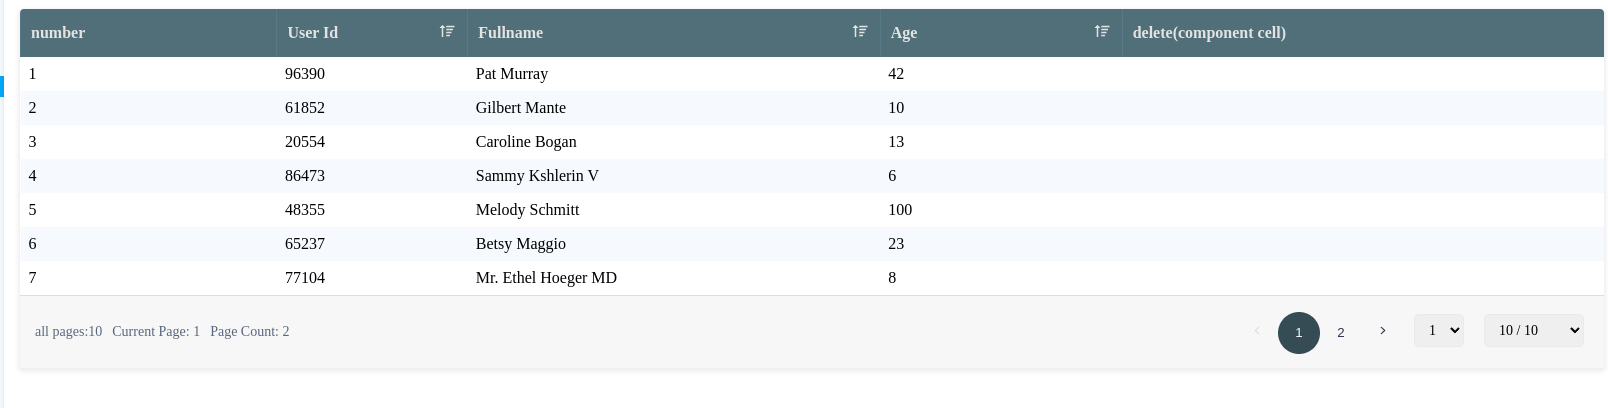
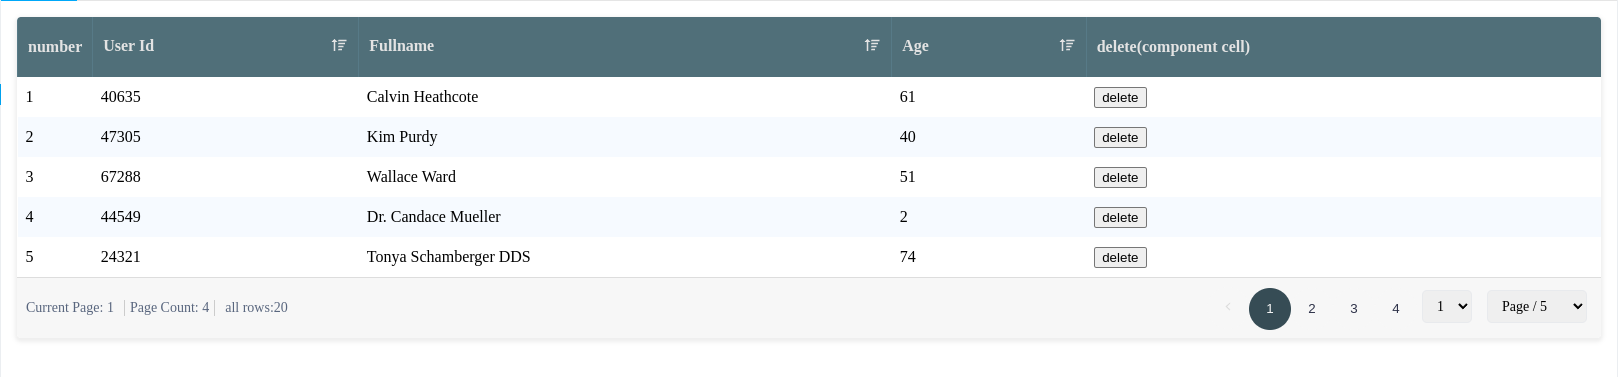
feat: add custom total record calculate

diff --git a/dist/esm/components/angrid.css b/dist/esm/components/angrid.css
@@ -1,1 +1,1 @@
-.angrid{position:relative;border-radius:4px;-webkit-box-shadow:0 2px 4px 2px #eee;box-shadow:0 2px 4px 2px #eee;overflow-x:auto;width:100%}.angrid .asax table{border-collapse:collapse;border-spacing:0;min-width:100%}.angrid .asax table thead tr{background-color:#546e7a;color:#e3e3e3}.angrid .asax table thead tr th{text-align:start;padding:15px 10px;position:relative;border-left:thin solid #5c7988}.angrid .asax table thead tr th button{margin:0 -6px;position:relative;top:calc(50% - 15px);cursor:pointer;width:30px;height:30px;color:#e3e3e3;background-color:#546e7a;border-radius:50%;border:none;font-size:large}.angrid .asax table thead tr th button:hover{background-color:#34454d}.angrid .asax table thead tr th .rtl{float:left}.angrid .asax table thead tr th .ltr{float:right}.angrid .asax table thead tr .sort span{top:5px;position:relative}.angrid .asax table tbody tr:nth-child(even){background-color:#f6faff}.angrid .asax table tbody tr:hover{background-color:#eee}.angrid .asax table tbody tr td{text-align:start;padding:8px}.angrid .asax .bordered td{border:thin solid #ccc}.angrid .asax .paginate{padding:10px;border-top:thin solid #ddd;display:flex;justify-content:space-between;flex-direction:row;background-color:#f7f7f7}.angrid .asax .paginate .paginateBox{display:flex;flex-direction:row}.angrid .asax .paginate button{cursor:pointer;width:42px;height:42px;color:#2e324a;background-color:#f7f7f7;border-radius:50%;margin-top:5px;border:none}.angrid .asax .paginate button:hover{background-color:#eee}.angrid .asax .paginate .active{background-color:#394c56;color:#f7f7f7}.angrid .asax .paginate .active:hover{background-color:#394c56}.angrid .asax .paginate .disabled{color:#ddd}.angrid .asax .paginate .disabled:hover{background-color:#f7f7f7;cursor:auto}.angrid .asax .paginate .selectPage{min-width:50px;margin-left:10px;margin-right:10px}.angrid .asax .paginate .selectPage select{padding:7px 5px 7px 10px;width:100%;border:1px solid #e8eaed;border-radius:5px;cursor:pointer;font-family:inherit;font-size:14px;transition:all 150ms ease;margin-top:8px}.angrid .asax .paginate .selectPage select:required:invalid{color:#5a667f}.angrid .asax .paginate .selectPage select option{color:#223254}.angrid .asax .paginate .selectPage select[value=""][disabled]{display:none}.angrid .asax .paginate .selectPage select:focus{outline:none;border-color:#07f;box-shadow:0 0 0 2px rgba(0,119,255,.2)}.angrid .asax .paginate .selectPage select:hover{stroke:#07f}.angrid .asax .paginate .rangePage{min-width:100px;margin-left:10px;margin-right:10px}.angrid .asax .paginate .rangePage select{padding:7px 5px 7px 10px;width:100%;border:1px solid #e8eaed;border-radius:5px;cursor:pointer;font-family:inherit;font-size:14px;transition:all 150ms ease;margin-top:8px}.angrid .asax .paginate .rangePage select:required:invalid{color:#5a667f}.angrid .asax .paginate .rangePage select option{color:#223254}.angrid .asax .paginate .rangePage select[value=""][disabled]{display:none}.angrid .asax .paginate .rangePage select:focus{outline:none;border-color:#07f;box-shadow:0 0 0 2px rgba(0,119,255,.2)}.angrid .asax .paginate .rangePage select:hover{stroke:#07f}.angrid .asax .paginate .textPage{font-size:14px;color:#5a667f;margin:18px 5px}.isEmpty{position:absolute;top:calc(50% - 60px);left:calc(50% - 60px)}.loading{top:calc(50% - 60px);left:calc(50% - 60px);min-height:300px;background-color:rgba(0,0,0,.2)}@keyframes lds-ring{0%{transform:rotate(0deg)}100%{transform:rotate(360deg)}}.lds-ring{width:80px;height:80px;position:absolute;left:0;right:0;top:40%;margin-left:auto;margin-right:auto}.lds-ring div{box-sizing:border-box;display:block;position:absolute;width:42px;height:42px;margin:8px;border:4px solid #546e7a;border-radius:50%;animation:lds-ring 1.2s cubic-bezier(0.5, 0, 0.5, 1) infinite;border-color:#546e7a rgba(0,0,0,0) rgba(0,0,0,0) rgba(0,0,0,0)}.lds-ring div:nth-child(1){animation-delay:-0.45s}.lds-ring div:nth-child(2){animation-delay:-0.3s}.lds-ring div:nth-child(3){animation-delay:-0.15s}
+.angrid{position:relative;border-radius:4px;-webkit-box-shadow:0 2px 4px 2px #eee;box-shadow:0 2px 4px 2px #eee;overflow-x:auto;width:100%}.angrid .asax table{border-collapse:collapse;border-spacing:0;min-width:100%}.angrid .asax table thead tr{background-color:#546e7a;color:#e3e3e3}.angrid .asax table thead tr th{text-align:start;padding:15px 10px;position:relative;border-left:thin solid #5c7988}.angrid .asax table thead tr th button{margin:0 -6px;position:relative;top:calc(50% - 15px);cursor:pointer;width:30px;height:30px;color:#e3e3e3;background-color:#546e7a;border-radius:50%;border:none;font-size:large}.angrid .asax table thead tr th button:hover{background-color:#34454d}.angrid .asax table thead tr th .rtl{float:left}.angrid .asax table thead tr th .ltr{float:right}.angrid .asax table thead tr .sort span{top:5px;position:relative}.angrid .asax table tbody tr:nth-child(even){background-color:#f6faff}.angrid .asax table tbody tr:hover{background-color:#eee}.angrid .asax table tbody tr td{text-align:start;padding:8px}.angrid .asax .bordered td{border:thin solid #ccc}.angrid .asax .paginate{padding:4px;border-top:thin solid #ddd;display:flex;justify-content:space-between;flex-direction:row;background-color:#f7f7f7}.angrid .asax .paginate .paginateBox{display:flex;font-size:large;flex-direction:row}.angrid .asax .paginate button{cursor:pointer;width:42px;height:42px;color:#2e324a;background-color:#f7f7f7;border-radius:50%;margin-top:5px;border:none}.angrid .asax .paginate button:hover{background-color:#eee}.angrid .asax .paginate .active{background-color:#394c56;color:#f7f7f7}.angrid .asax .paginate .active:hover{background-color:#394c56}.angrid .asax .paginate .disabled{color:#ddd}.angrid .asax .paginate .disabled:hover{background-color:#f7f7f7;cursor:auto}.angrid .asax .paginate .selectPage{min-width:50px;margin-left:5px;margin-right:5px}.angrid .asax .paginate .selectPage select{padding:7px 5px 7px 10px;width:100%;border:1px solid #e8eaed;border-radius:5px;cursor:pointer;font-family:inherit;font-size:14px;transition:all 150ms ease;margin-top:8px}.angrid .asax .paginate .selectPage select:required:invalid{color:#5a667f}.angrid .asax .paginate .selectPage select option{color:#223254}.angrid .asax .paginate .selectPage select[value=""][disabled]{display:none}.angrid .asax .paginate .selectPage select:focus{outline:none;border-color:#07f;box-shadow:0 0 0 2px rgba(0,119,255,.2)}.angrid .asax .paginate .selectPage select:hover{stroke:#07f}.angrid .asax .paginate .rangePage{min-width:100px;margin-left:10px;margin-right:10px}.angrid .asax .paginate .rangePage select{padding:7px 5px 7px 10px;width:100%;border:1px solid #e8eaed;border-radius:5px;cursor:pointer;font-family:inherit;font-size:14px;transition:all 150ms ease;margin-top:8px}.angrid .asax .paginate .rangePage select:required:invalid{color:#5a667f}.angrid .asax .paginate .rangePage select option{color:#223254}.angrid .asax .paginate .rangePage select[value=""][disabled]{display:none}.angrid .asax .paginate .rangePage select:focus{outline:none;border-color:#07f;box-shadow:0 0 0 2px rgba(0,119,255,.2)}.angrid .asax .paginate .rangePage select:hover{stroke:#07f}.angrid .asax .paginate .textPage{font-size:14px;color:#5a667f;margin:18px 5px}.angrid .asax .paginate .textPage .bordered-text{border-right:thin solid #ccc;border-left:thin solid #ccc;padding-right:5px;padding-left:5px}.isEmpty{position:absolute;top:calc(50% - 60px);left:calc(50% - 60px)}.loading{top:calc(50% - 60px);left:calc(50% - 60px);min-height:300px;background-color:rgba(0,0,0,.2)}@keyframes lds-ring{0%{transform:rotate(0deg)}100%{transform:rotate(360deg)}}.lds-ring{width:80px;height:80px;position:absolute;left:0;right:0;top:40%;margin-left:auto;margin-right:auto}.lds-ring div{box-sizing:border-box;display:block;position:absolute;width:42px;height:42px;margin:8px;border:4px solid #546e7a;border-radius:50%;animation:lds-ring 1.2s cubic-bezier(0.5, 0, 0.5, 1) infinite;border-color:#546e7a rgba(0,0,0,0) rgba(0,0,0,0) rgba(0,0,0,0)}.lds-ring div:nth-child(1){animation-delay:-0.45s}.lds-ring div:nth-child(2){animation-delay:-0.3s}.lds-ring div:nth-child(3){animation-delay:-0.15s}

diff --git a/src/components/angrid.css b/src/components/angrid.css
@@ -1,1 +1,1 @@
-.angrid{position:relative;border-radius:4px;-webkit-box-shadow:0 2px 4px 2px #eee;box-shadow:0 2px 4px 2px #eee;overflow-x:auto;width:100%}.angrid .asax table{border-collapse:collapse;border-spacing:0;min-width:100%}.angrid .asax table thead tr{background-color:#546e7a;color:#e3e3e3}.angrid .asax table thead tr th{text-align:start;padding:15px 10px;position:relative;border-left:thin solid #5c7988}.angrid .asax table thead tr th button{margin:0 -6px;position:relative;top:calc(50% - 15px);cursor:pointer;width:30px;height:30px;color:#e3e3e3;background-color:#546e7a;border-radius:50%;border:none;font-size:large}.angrid .asax table thead tr th button:hover{background-color:#34454d}.angrid .asax table thead tr th .rtl{float:left}.angrid .asax table thead tr th .ltr{float:right}.angrid .asax table thead tr .sort span{top:5px;position:relative}.angrid .asax table tbody tr:nth-child(even){background-color:#f6faff}.angrid .asax table tbody tr:hover{background-color:#eee}.angrid .asax table tbody tr td{text-align:start;padding:8px}.angrid .asax .bordered td{border:thin solid #ccc}.angrid .asax .paginate{padding:10px;border-top:thin solid #ddd;display:flex;justify-content:space-between;flex-direction:row;background-color:#f7f7f7}.angrid .asax .paginate .paginateBox{display:flex;flex-direction:row}.angrid .asax .paginate button{cursor:pointer;width:42px;height:42px;color:#2e324a;background-color:#f7f7f7;border-radius:50%;margin-top:5px;border:none}.angrid .asax .paginate button:hover{background-color:#eee}.angrid .asax .paginate .active{background-color:#394c56;color:#f7f7f7}.angrid .asax .paginate .active:hover{background-color:#394c56}.angrid .asax .paginate .disabled{color:#ddd}.angrid .asax .paginate .disabled:hover{background-color:#f7f7f7;cursor:auto}.angrid .asax .paginate .selectPage{min-width:50px;margin-left:10px;margin-right:10px}.angrid .asax .paginate .selectPage select{padding:7px 5px 7px 10px;width:100%;border:1px solid #e8eaed;border-radius:5px;cursor:pointer;font-family:inherit;font-size:14px;transition:all 150ms ease;margin-top:8px}.angrid .asax .paginate .selectPage select:required:invalid{color:#5a667f}.angrid .asax .paginate .selectPage select option{color:#223254}.angrid .asax .paginate .selectPage select[value=""][disabled]{display:none}.angrid .asax .paginate .selectPage select:focus{outline:none;border-color:#07f;box-shadow:0 0 0 2px rgba(0,119,255,.2)}.angrid .asax .paginate .selectPage select:hover{stroke:#07f}.angrid .asax .paginate .rangePage{min-width:100px;margin-left:10px;margin-right:10px}.angrid .asax .paginate .rangePage select{padding:7px 5px 7px 10px;width:100%;border:1px solid #e8eaed;border-radius:5px;cursor:pointer;font-family:inherit;font-size:14px;transition:all 150ms ease;margin-top:8px}.angrid .asax .paginate .rangePage select:required:invalid{color:#5a667f}.angrid .asax .paginate .rangePage select option{color:#223254}.angrid .asax .paginate .rangePage select[value=""][disabled]{display:none}.angrid .asax .paginate .rangePage select:focus{outline:none;border-color:#07f;box-shadow:0 0 0 2px rgba(0,119,255,.2)}.angrid .asax .paginate .rangePage select:hover{stroke:#07f}.angrid .asax .paginate .textPage{font-size:14px;color:#5a667f;margin:18px 5px}.isEmpty{position:absolute;top:calc(50% - 60px);left:calc(50% - 60px)}.loading{top:calc(50% - 60px);left:calc(50% - 60px);min-height:300px;background-color:rgba(0,0,0,.2)}@keyframes lds-ring{0%{transform:rotate(0deg)}100%{transform:rotate(360deg)}}.lds-ring{width:80px;height:80px;position:absolute;left:0;right:0;top:40%;margin-left:auto;margin-right:auto}.lds-ring div{box-sizing:border-box;display:block;position:absolute;width:42px;height:42px;margin:8px;border:4px solid #546e7a;border-radius:50%;animation:lds-ring 1.2s cubic-bezier(0.5, 0, 0.5, 1) infinite;border-color:#546e7a rgba(0,0,0,0) rgba(0,0,0,0) rgba(0,0,0,0)}.lds-ring div:nth-child(1){animation-delay:-0.45s}.lds-ring div:nth-child(2){animation-delay:-0.3s}.lds-ring div:nth-child(3){animation-delay:-0.15s}
+.angrid{position:relative;border-radius:4px;-webkit-box-shadow:0 2px 4px 2px #eee;box-shadow:0 2px 4px 2px #eee;overflow-x:auto;width:100%}.angrid .asax table{border-collapse:collapse;border-spacing:0;min-width:100%}.angrid .asax table thead tr{background-color:#546e7a;color:#e3e3e3}.angrid .asax table thead tr th{text-align:start;padding:15px 10px;position:relative;border-left:thin solid #5c7988}.angrid .asax table thead tr th button{margin:0 -6px;position:relative;top:calc(50% - 15px);cursor:pointer;width:30px;height:30px;color:#e3e3e3;background-color:#546e7a;border-radius:50%;border:none;font-size:large}.angrid .asax table thead tr th button:hover{background-color:#34454d}.angrid .asax table thead tr th .rtl{float:left}.angrid .asax table thead tr th .ltr{float:right}.angrid .asax table thead tr .sort span{top:5px;position:relative}.angrid .asax table tbody tr:nth-child(even){background-color:#f6faff}.angrid .asax table tbody tr:hover{background-color:#eee}.angrid .asax table tbody tr td{text-align:start;padding:8px}.angrid .asax .bordered td{border:thin solid #ccc}.angrid .asax .paginate{padding:4px;border-top:thin solid #ddd;display:flex;justify-content:space-between;flex-direction:row;background-color:#f7f7f7}.angrid .asax .paginate .paginateBox{display:flex;font-size:large;flex-direction:row}.angrid .asax .paginate button{cursor:pointer;width:42px;height:42px;color:#2e324a;background-color:#f7f7f7;border-radius:50%;margin-top:5px;border:none}.angrid .asax .paginate button:hover{background-color:#eee}.angrid .asax .paginate .active{background-color:#394c56;color:#f7f7f7}.angrid .asax .paginate .active:hover{background-color:#394c56}.angrid .asax .paginate .disabled{color:#ddd}.angrid .asax .paginate .disabled:hover{background-color:#f7f7f7;cursor:auto}.angrid .asax .paginate .selectPage{min-width:50px;margin-left:5px;margin-right:5px}.angrid .asax .paginate .selectPage select{padding:7px 5px 7px 10px;width:100%;border:1px solid #e8eaed;border-radius:5px;cursor:pointer;font-family:inherit;font-size:14px;transition:all 150ms ease;margin-top:8px}.angrid .asax .paginate .selectPage select:required:invalid{color:#5a667f}.angrid .asax .paginate .selectPage select option{color:#223254}.angrid .asax .paginate .selectPage select[value=""][disabled]{display:none}.angrid .asax .paginate .selectPage select:focus{outline:none;border-color:#07f;box-shadow:0 0 0 2px rgba(0,119,255,.2)}.angrid .asax .paginate .selectPage select:hover{stroke:#07f}.angrid .asax .paginate .rangePage{min-width:100px;margin-left:10px;margin-right:10px}.angrid .asax .paginate .rangePage select{padding:7px 5px 7px 10px;width:100%;border:1px solid #e8eaed;border-radius:5px;cursor:pointer;font-family:inherit;font-size:14px;transition:all 150ms ease;margin-top:8px}.angrid .asax .paginate .rangePage select:required:invalid{color:#5a667f}.angrid .asax .paginate .rangePage select option{color:#223254}.angrid .asax .paginate .rangePage select[value=""][disabled]{display:none}.angrid .asax .paginate .rangePage select:focus{outline:none;border-color:#07f;box-shadow:0 0 0 2px rgba(0,119,255,.2)}.angrid .asax .paginate .rangePage select:hover{stroke:#07f}.angrid .asax .paginate .textPage{font-size:14px;color:#5a667f;margin:18px 5px}.angrid .asax .paginate .textPage .bordered-text{border-right:thin solid #ccc;border-left:thin solid #ccc;padding-right:5px;padding-left:5px}.isEmpty{position:absolute;top:calc(50% - 60px);left:calc(50% - 60px)}.loading{top:calc(50% - 60px);left:calc(50% - 60px);min-height:300px;background-color:rgba(0,0,0,.2)}@keyframes lds-ring{0%{transform:rotate(0deg)}100%{transform:rotate(360deg)}}.lds-ring{width:80px;height:80px;position:absolute;left:0;right:0;top:40%;margin-left:auto;margin-right:auto}.lds-ring div{box-sizing:border-box;display:block;position:absolute;width:42px;height:42px;margin:8px;border:4px solid #546e7a;border-radius:50%;animation:lds-ring 1.2s cubic-bezier(0.5, 0, 0.5, 1) infinite;border-color:#546e7a rgba(0,0,0,0) rgba(0,0,0,0) rgba(0,0,0,0)}.lds-ring div:nth-child(1){animation-delay:-0.45s}.lds-ring div:nth-child(2){animation-delay:-0.3s}.lds-ring div:nth-child(3){animation-delay:-0.15s}

diff --git a/dist/cjs/components/an-grid.js b/dist/cjs/components/an-grid.js
@@ -30,12 +30,12 @@ var paginate_1 = require("./paginate");
 var table_1 = require("./table");
 var range = [5, 10, 20, 50, 100, 200, 500];
 var Main = function (_a) {
-    var _b = _a.className, className = _b === void 0 ? '' : _b, _c = _a.theme, theme = _c === void 0 ? 'light' : _c, _d = _a.rowHeight, rowHeight = _d === void 0 ? 30 : _d, _e = _a.showRowNumber, showRowNumber = _e === void 0 ? true : _e, _f = _a.columnNumberTitle, columnNumberTitle = _f === void 0 ? '#' : _f, columns = _a.columns, rows = _a.rows, _g = _a.loading, loading = _g === void 0 ? false : _g, _h = _a.pageSize, pageSize = _h === void 0 ? 20 : _h, _j = _a.onPageChange, onPageChange = _j === void 0 ? function () { } : _j, _k = _a.showTotalRecord, showTotalRecord = _k === void 0 ? false : _k, _l = _a.showCurrentPage, showCurrentPage = _l === void 0 ? false : _l, _m = _a.showNumberOfPage, showNumberOfPage = _m === void 0 ? false : _m, _o = _a.showPageRange, showPageRange = _o === void 0 ? true : _o, _p = _a.showPageSelect, showPageSelect = _p === void 0 ? true : _p, _q = _a.showPageNumber, showPageNumber = _q === void 0 ? true : _q, _r = _a.showPageArrow, showPageArrow = _r === void 0 ? true : _r, _s = _a.bordered, bordered = _s === void 0 ? false : _s, _t = _a.textCurrent, textCurrent = _t === void 0 ? locale_1.locale.fa.current : _t, _u = _a.textTotal, textTotal = _u === void 0 ? locale_1.locale.fa.total : _u, _v = _a.textNumber, textNumber = _v === void 0 ? locale_1.locale.fa.number : _v, _w = _a.textEmpty, textEmpty = _w === void 0 ? locale_1.locale.fa.empty : _w, _x = _a.textPage, textPage = _x === void 0 ? locale_1.locale.fa.page : _x, _y = _a.rtl, rtl = _y === void 0 ? false : _y;
-    var _z = (0, react_1.useState)(true), isLoading = _z[0], setIsLoading = _z[1];
-    var _0 = (0, react_1.useState)(false), isEmpty = _0[0], setIsEmpty = _0[1];
-    var _1 = (0, react_1.useState)([]), isRow = _1[0], setIsRow = _1[1];
-    var _2 = (0, react_1.useState)(pageSize), isSize = _2[0], setIsSize = _2[1];
-    var _3 = (0, react_1.useState)(1), page = _3[0], setPage = _3[1];
+    var _b = _a.className, className = _b === void 0 ? '' : _b, _c = _a.theme, theme = _c === void 0 ? 'light' : _c, _d = _a.rowHeight, rowHeight = _d === void 0 ? 30 : _d, _e = _a.showRowNumber, showRowNumber = _e === void 0 ? true : _e, _f = _a.columnNumberTitle, columnNumberTitle = _f === void 0 ? '#' : _f, columns = _a.columns, rows = _a.rows, _g = _a.loading, loading = _g === void 0 ? false : _g, _h = _a.pageSize, pageSize = _h === void 0 ? 20 : _h, _j = _a.onPageChange, onPageChange = _j === void 0 ? function () { } : _j, _k = _a.showTotalRecord, showTotalRecord = _k === void 0 ? false : _k, _l = _a.showCurrentPage, showCurrentPage = _l === void 0 ? false : _l, _m = _a.showNumberOfPage, showNumberOfPage = _m === void 0 ? false : _m, _o = _a.showPageRange, showPageRange = _o === void 0 ? true : _o, _p = _a.showPageSelect, showPageSelect = _p === void 0 ? true : _p, _q = _a.showPageNumber, showPageNumber = _q === void 0 ? true : _q, _r = _a.showPageArrow, showPageArrow = _r === void 0 ? true : _r, _s = _a.bordered, bordered = _s === void 0 ? false : _s, _t = _a.textCurrent, textCurrent = _t === void 0 ? locale_1.locale.fa.current : _t, _u = _a.textTotal, textTotal = _u === void 0 ? locale_1.locale.fa.total : _u, _v = _a.textNumber, textNumber = _v === void 0 ? locale_1.locale.fa.number : _v, _w = _a.textEmpty, textEmpty = _w === void 0 ? locale_1.locale.fa.empty : _w, _x = _a.textPage, textPage = _x === void 0 ? locale_1.locale.fa.page : _x, _y = _a.totalCount, totalCount = _y === void 0 ? rows.length : _y, _z = _a.rtl, rtl = _z === void 0 ? false : _z;
+    var _0 = (0, react_1.useState)(true), isLoading = _0[0], setIsLoading = _0[1];
+    var _1 = (0, react_1.useState)(false), isEmpty = _1[0], setIsEmpty = _1[1];
+    var _2 = (0, react_1.useState)([]), isRow = _2[0], setIsRow = _2[1];
+    var _3 = (0, react_1.useState)(pageSize), isSize = _3[0], setIsSize = _3[1];
+    var _4 = (0, react_1.useState)(1), page = _4[0], setPage = _4[1];
     var indexOfLastRecord = page * isSize;
     var indexOfFirstRecord = indexOfLastRecord - isSize;
     var sortRows = (0, react_1.useCallback)(function (value, desc) {
@@ -67,6 +67,6 @@ var Main = function (_a) {
     }, [pageSize]);
     return ((0, jsx_runtime_1.jsx)("div", __assign({ className: "angrid ".concat(theme, " ").concat(className), style: { minHeight: rows.length === 0 ? '300px' : '' } }, { children: (0, jsx_runtime_1.jsxs)("div", __assign({ className: 'asax' }, { children: [(0, jsx_runtime_1.jsx)(table_1.Table, { rowHeight: rowHeight, textEmpty: textEmpty, rtl: rtl, className: bordered ? 'bordered' : '', showRowNumber: showRowNumber, columnNumberTitle: columnNumberTitle, columns: columns, rows: isRow, pageSize: isSize, currentPage: page, empty: isEmpty, loading: isLoading, sortable: function (value, sort) {
                         return sortRows(value, sort);
-                    } }), !isEmpty && !isLoading && ((0, jsx_runtime_1.jsx)(paginate_1.Paginate, { textCurrent: textCurrent, textTotal: textTotal, textNumber: textNumber, rtl: rtl, totalCount: rows.length, pageSize: isSize, onPageChange: onPageChange, range: range, showTotalRecord: showTotalRecord, showCurrentPage: showCurrentPage, showNumberOfPage: showNumberOfPage, showPageRange: showPageRange, showPageSelect: showPageSelect, showPageNumber: showPageNumber, showPageArrow: showPageArrow, page: page, setPage: handleSetPage, textPage: textPage, changeSize: setIsSize }))] })) })));
+                    } }), !isEmpty && !isLoading && ((0, jsx_runtime_1.jsx)(paginate_1.Paginate, { textCurrent: textCurrent, textTotal: textTotal, textNumber: textNumber, rtl: rtl, totalCount: totalCount, pageSize: isSize, onPageChange: onPageChange, range: range, showTotalRecord: showTotalRecord, showCurrentPage: showCurrentPage, showNumberOfPage: showNumberOfPage, showPageRange: showPageRange, showPageSelect: showPageSelect, showPageNumber: showPageNumber, showPageArrow: showPageArrow, page: page, setPage: handleSetPage, textPage: textPage, changeSize: setIsSize }))] })) })));
 };
 exports.Angrid = (0, react_1.memo)(Main);

diff --git a/dist/esm/components/an-grid.js b/dist/esm/components/an-grid.js
@@ -27,12 +27,12 @@ import { Paginate } from './paginate';
 import { Table } from './table';
 var range = [5, 10, 20, 50, 100, 200, 500];
 var Main = function (_a) {
-    var _b = _a.className, className = _b === void 0 ? '' : _b, _c = _a.theme, theme = _c === void 0 ? 'light' : _c, _d = _a.rowHeight, rowHeight = _d === void 0 ? 30 : _d, _e = _a.showRowNumber, showRowNumber = _e === void 0 ? true : _e, _f = _a.columnNumberTitle, columnNumberTitle = _f === void 0 ? '#' : _f, columns = _a.columns, rows = _a.rows, _g = _a.loading, loading = _g === void 0 ? false : _g, _h = _a.pageSize, pageSize = _h === void 0 ? 20 : _h, _j = _a.onPageChange, onPageChange = _j === void 0 ? function () { } : _j, _k = _a.showTotalRecord, showTotalRecord = _k === void 0 ? false : _k, _l = _a.showCurrentPage, showCurrentPage = _l === void 0 ? false : _l, _m = _a.showNumberOfPage, showNumberOfPage = _m === void 0 ? false : _m, _o = _a.showPageRange, showPageRange = _o === void 0 ? true : _o, _p = _a.showPageSelect, showPageSelect = _p === void 0 ? true : _p, _q = _a.showPageNumber, showPageNumber = _q === void 0 ? true : _q, _r = _a.showPageArrow, showPageArrow = _r === void 0 ? true : _r, _s = _a.bordered, bordered = _s === void 0 ? false : _s, _t = _a.textCurrent, textCurrent = _t === void 0 ? locale.fa.current : _t, _u = _a.textTotal, textTotal = _u === void 0 ? locale.fa.total : _u, _v = _a.textNumber, textNumber = _v === void 0 ? locale.fa.number : _v, _w = _a.textEmpty, textEmpty = _w === void 0 ? locale.fa.empty : _w, _x = _a.textPage, textPage = _x === void 0 ? locale.fa.page : _x, _y = _a.rtl, rtl = _y === void 0 ? false : _y;
-    var _z = useState(true), isLoading = _z[0], setIsLoading = _z[1];
-    var _0 = useState(false), isEmpty = _0[0], setIsEmpty = _0[1];
-    var _1 = useState([]), isRow = _1[0], setIsRow = _1[1];
-    var _2 = useState(pageSize), isSize = _2[0], setIsSize = _2[1];
-    var _3 = useState(1), page = _3[0], setPage = _3[1];
+    var _b = _a.className, className = _b === void 0 ? '' : _b, _c = _a.theme, theme = _c === void 0 ? 'light' : _c, _d = _a.rowHeight, rowHeight = _d === void 0 ? 30 : _d, _e = _a.showRowNumber, showRowNumber = _e === void 0 ? true : _e, _f = _a.columnNumberTitle, columnNumberTitle = _f === void 0 ? '#' : _f, columns = _a.columns, rows = _a.rows, _g = _a.loading, loading = _g === void 0 ? false : _g, _h = _a.pageSize, pageSize = _h === void 0 ? 20 : _h, _j = _a.onPageChange, onPageChange = _j === void 0 ? function () { } : _j, _k = _a.showTotalRecord, showTotalRecord = _k === void 0 ? false : _k, _l = _a.showCurrentPage, showCurrentPage = _l === void 0 ? false : _l, _m = _a.showNumberOfPage, showNumberOfPage = _m === void 0 ? false : _m, _o = _a.showPageRange, showPageRange = _o === void 0 ? true : _o, _p = _a.showPageSelect, showPageSelect = _p === void 0 ? true : _p, _q = _a.showPageNumber, showPageNumber = _q === void 0 ? true : _q, _r = _a.showPageArrow, showPageArrow = _r === void 0 ? true : _r, _s = _a.bordered, bordered = _s === void 0 ? false : _s, _t = _a.textCurrent, textCurrent = _t === void 0 ? locale.fa.current : _t, _u = _a.textTotal, textTotal = _u === void 0 ? locale.fa.total : _u, _v = _a.textNumber, textNumber = _v === void 0 ? locale.fa.number : _v, _w = _a.textEmpty, textEmpty = _w === void 0 ? locale.fa.empty : _w, _x = _a.textPage, textPage = _x === void 0 ? locale.fa.page : _x, _y = _a.totalCount, totalCount = _y === void 0 ? rows.length : _y, _z = _a.rtl, rtl = _z === void 0 ? false : _z;
+    var _0 = useState(true), isLoading = _0[0], setIsLoading = _0[1];
+    var _1 = useState(false), isEmpty = _1[0], setIsEmpty = _1[1];
+    var _2 = useState([]), isRow = _2[0], setIsRow = _2[1];
+    var _3 = useState(pageSize), isSize = _3[0], setIsSize = _3[1];
+    var _4 = useState(1), page = _4[0], setPage = _4[1];
     var indexOfLastRecord = page * isSize;
     var indexOfFirstRecord = indexOfLastRecord - isSize;
     var sortRows = useCallback(function (value, desc) {
@@ -64,6 +64,6 @@ var Main = function (_a) {
     }, [pageSize]);
     return (_jsx("div", __assign({ className: "angrid ".concat(theme, " ").concat(className), style: { minHeight: rows.length === 0 ? '300px' : '' } }, { children: _jsxs("div", __assign({ className: 'asax' }, { children: [_jsx(Table, { rowHeight: rowHeight, textEmpty: textEmpty, rtl: rtl, className: bordered ? 'bordered' : '', showRowNumber: showRowNumber, columnNumberTitle: columnNumberTitle, columns: columns, rows: isRow, pageSize: isSize, currentPage: page, empty: isEmpty, loading: isLoading, sortable: function (value, sort) {
                         return sortRows(value, sort);
-                    } }), !isEmpty && !isLoading && (_jsx(Paginate, { textCurrent: textCurrent, textTotal: textTotal, textNumber: textNumber, rtl: rtl, totalCount: rows.length, pageSize: isSize, onPageChange: onPageChange, range: range, showTotalRecord: showTotalRecord, showCurrentPage: showCurrentPage, showNumberOfPage: showNumberOfPage, showPageRange: showPageRange, showPageSelect: showPageSelect, showPageNumber: showPageNumber, showPageArrow: showPageArrow, page: page, setPage: handleSetPage, textPage: textPage, changeSize: setIsSize }))] })) })));
+                    } }), !isEmpty && !isLoading && (_jsx(Paginate, { textCurrent: textCurrent, textTotal: textTotal, textNumber: textNumber, rtl: rtl, totalCount: totalCount, pageSize: isSize, onPageChange: onPageChange, range: range, showTotalRecord: showTotalRecord, showCurrentPage: showCurrentPage, showNumberOfPage: showNumberOfPage, showPageRange: showPageRange, showPageSelect: showPageSelect, showPageNumber: showPageNumber, showPageArrow: showPageArrow, page: page, setPage: handleSetPage, textPage: textPage, changeSize: setIsSize }))] })) })));
 };
 export var Angrid = memo(Main);

diff --git a/dist/cjs/components/paginate.js b/dist/cjs/components/paginate.js
@@ -76,7 +76,7 @@ var Main = function (_a) {
         changeSize(+event.target.value);
         setPage(1);
     };
-    return ((0, jsx_runtime_1.jsxs)("div", __assign({ className: 'paginate' }, { children: [(0, jsx_runtime_1.jsxs)("div", __assign({ className: 'paginateBox' }, { children: [showTotalRecord && ((0, jsx_runtime_1.jsx)("div", __assign({ className: 'textPage' }, { children: (0, jsx_runtime_1.jsxs)("div", { children: [textTotal, ":", totalCount] }) }))), showCurrentPage && ((0, jsx_runtime_1.jsx)("div", __assign({ className: 'textPage' }, { children: totalCount && totalCount > pageSize && ((0, jsx_runtime_1.jsxs)(jsx_runtime_1.Fragment, { children: [textCurrent, ": ", page] })) }))), showNumberOfPage && ((0, jsx_runtime_1.jsx)("div", __assign({ className: 'textPage' }, { children: totalCount && totalCount > pageSize && ((0, jsx_runtime_1.jsxs)(jsx_runtime_1.Fragment, { children: [textNumber, ": ", totalPageCount] })) })))] })), (0, jsx_runtime_1.jsxs)("div", __assign({ className: 'paginateBox' }, { children: [(0, jsx_runtime_1.jsxs)("div", { children: [showPageArrow && totalCount && totalCount > pageSize && ((0, jsx_runtime_1.jsx)("button", __assign({ onClick: function () {
+    return ((0, jsx_runtime_1.jsxs)("div", __assign({ className: 'paginate' }, { children: [(0, jsx_runtime_1.jsxs)("div", __assign({ className: 'paginateBox' }, { children: [showCurrentPage && ((0, jsx_runtime_1.jsx)("div", __assign({ className: 'textPage' }, { children: totalCount && totalCount > pageSize && ((0, jsx_runtime_1.jsxs)("div", { children: [textCurrent, ": ", page] })) }))), showNumberOfPage && ((0, jsx_runtime_1.jsx)("div", __assign({ className: 'textPage' }, { children: totalCount && totalCount > pageSize && ((0, jsx_runtime_1.jsxs)("div", __assign({ className: 'bordered-text' }, { children: [textNumber, ": ", totalPageCount] }))) }))), showTotalRecord && ((0, jsx_runtime_1.jsx)("div", __assign({ className: 'textPage' }, { children: (0, jsx_runtime_1.jsxs)("div", { children: [textTotal, ":", totalCount] }) })))] })), (0, jsx_runtime_1.jsxs)("div", __assign({ className: 'paginateBox' }, { children: [(0, jsx_runtime_1.jsxs)("div", { children: [showPageArrow && totalCount && totalCount > pageSize && ((0, jsx_runtime_1.jsx)("button", __assign({ onClick: function () {
                                     return pageChanging(PaginateType.PREV, 1);
                                 }, type: 'button', className: page === 1 ? 'disabled' : '' }, { children: rtl ? (0, jsx_runtime_1.jsx)(icons_1.FiChevronRight, {}) : (0, jsx_runtime_1.jsx)(icons_1.FiChevronLeft, {}) }))), showPageNumber && totalCount && totalCount > pageSize && ((0, jsx_runtime_1.jsx)("span", { children: slices.map(function (item) { return ((0, jsx_runtime_1.jsx)("button", __assign({ className: item === page ? 'active' : '', onClick: function () {
                                         return pageChanging(PaginateType.SELECT, item);

diff --git a/dist/esm/components/paginate.js b/dist/esm/components/paginate.js
@@ -9,7 +9,7 @@ var __assign = (this && this.__assign) || function () {
     };
     return __assign.apply(this, arguments);
 };
-import { jsxs as _jsxs, jsx as _jsx, Fragment as _Fragment } from "react/jsx-runtime";
+import { jsxs as _jsxs, jsx as _jsx } from "react/jsx-runtime";
 import { memo, useCallback, useEffect, useState } from 'react';
 import { v4 as uuidv4 } from 'uuid';
 import { FiChevronLeft, FiChevronRight } from './icons';
@@ -73,7 +73,7 @@ export var Main = function (_a) {
         changeSize(+event.target.value);
         setPage(1);
     };
-    return (_jsxs("div", __assign({ className: 'paginate' }, { children: [_jsxs("div", __assign({ className: 'paginateBox' }, { children: [showTotalRecord && (_jsx("div", __assign({ className: 'textPage' }, { children: _jsxs("div", { children: [textTotal, ":", totalCount] }) }))), showCurrentPage && (_jsx("div", __assign({ className: 'textPage' }, { children: totalCount && totalCount > pageSize && (_jsxs(_Fragment, { children: [textCurrent, ": ", page] })) }))), showNumberOfPage && (_jsx("div", __assign({ className: 'textPage' }, { children: totalCount && totalCount > pageSize && (_jsxs(_Fragment, { children: [textNumber, ": ", totalPageCount] })) })))] })), _jsxs("div", __assign({ className: 'paginateBox' }, { children: [_jsxs("div", { children: [showPageArrow && totalCount && totalCount > pageSize && (_jsx("button", __assign({ onClick: function () {
+    return (_jsxs("div", __assign({ className: 'paginate' }, { children: [_jsxs("div", __assign({ className: 'paginateBox' }, { children: [showCurrentPage && (_jsx("div", __assign({ className: 'textPage' }, { children: totalCount && totalCount > pageSize && (_jsxs("div", { children: [textCurrent, ": ", page] })) }))), showNumberOfPage && (_jsx("div", __assign({ className: 'textPage' }, { children: totalCount && totalCount > pageSize && (_jsxs("div", __assign({ className: 'bordered-text' }, { children: [textNumber, ": ", totalPageCount] }))) }))), showTotalRecord && (_jsx("div", __assign({ className: 'textPage' }, { children: _jsxs("div", { children: [textTotal, ":", totalCount] }) })))] })), _jsxs("div", __assign({ className: 'paginateBox' }, { children: [_jsxs("div", { children: [showPageArrow && totalCount && totalCount > pageSize && (_jsx("button", __assign({ onClick: function () {
                                     return pageChanging(PaginateType.PREV, 1);
                                 }, type: 'button', className: page === 1 ? 'disabled' : '' }, { children: rtl ? _jsx(FiChevronRight, {}) : _jsx(FiChevronLeft, {}) }))), showPageNumber && totalCount && totalCount > pageSize && (_jsx("span", { children: slices.map(function (item) { return (_jsx("button", __assign({ className: item === page ? 'active' : '', onClick: function () {
                                         return pageChanging(PaginateType.SELECT, item);

diff --git a/src/components/paginate.tsx b/src/components/paginate.tsx
@@ -98,21 +98,13 @@ export const Main = ({
     return (
         <div className='paginate'>
             <div className='paginateBox'>
-                {/* total record */}
-                {showTotalRecord && (
-                    <div className='textPage'>
-                        <div>
-                            {textTotal}:{totalCount}
-                        </div>
-                    </div>
-                )}
                 {/* current page */}
                 {showCurrentPage && (
                     <div className='textPage'>
                         {totalCount && totalCount > pageSize && (
-                            <>
+                            <div>
                                 {textCurrent}: {page}
-                            </>
+                            </div>
                         )}
                     </div>
                 )}
@@ -120,10 +112,18 @@ export const Main = ({
                 {showNumberOfPage && (
                     <div className='textPage'>
                         {totalCount && totalCount > pageSize && (
-                            <>
+                            <div className='bordered-text'>
                                 {textNumber}: {totalPageCount}
-                            </>
+                            </div>
                         )}
+                    </div>
+                )}
+                {/* total record */}
+                {showTotalRecord && (
+                    <div className='textPage'>
+                        <div>
+                            {textTotal}:{totalCount}
+                        </div>
                     </div>
                 )}
             </div>

diff --git a/src/components/angrid.scss b/src/components/angrid.scss
@@ -72,7 +72,7 @@
             }
         }
         .paginate {
-            padding: 10px;
+            padding: 4px;
             border-top: thin solid #ddd;
             display: flex;
             justify-content: space-between;
@@ -80,6 +80,7 @@
             background-color: #f7f7f7;
             .paginateBox {
                 display: flex;
+                font-size: large;
                 flex-direction: row;
             }
             button {
@@ -111,8 +112,8 @@
             }
             .selectPage {
                 min-width: 50px;
-                margin-left: 10px;
-                margin-right: 10px;
+                margin-left: 5px;
+                margin-right: 5px;
                 select {
                     padding: 7px 5px 7px 10px;
                     width: 100%;
@@ -185,6 +186,12 @@
                 font-size: 14px;
                 color: #5a667f;
                 margin: 18px 5px;
+                .bordered-text {
+                    border-right: thin solid #ccc;
+                    border-left: thin solid #ccc;
+                    padding-right: 5px;
+                    padding-left: 5px;
+                }
             }
         }
     }

diff --git a/dist/cjs/components/an-grid.d.ts b/dist/cjs/components/an-grid.d.ts
@@ -24,6 +24,7 @@ export interface PropsTypes {
     columns: Columns[];
     rows: RowsType[];
     pageSize?: number;
+    totalCount?: number;
     loading?: boolean;
     showTotalRecord?: boolean;
     showCurrentPage?: boolean;
@@ -41,4 +42,4 @@ export interface PropsTypes {
     rtl?: boolean;
     onPageChange?: (current: number, size: number) => void;
 }
-export declare const Angrid: import("react").MemoExoticComponent<({ className, theme, rowHeight, showRowNumber, columnNumberTitle, columns, rows, loading, pageSize, onPageChange, showTotalRecord, showCurrentPage, showNumberOfPage, showPageRange, showPageSelect, showPageNumber, showPageArrow, bordered, textCurrent, textTotal, textNumber, textEmpty, textPage, rtl, }: PropsTypes) => JSX.Element>;
+export declare const Angrid: import("react").MemoExoticComponent<({ className, theme, rowHeight, showRowNumber, columnNumberTitle, columns, rows, loading, pageSize, onPageChange, showTotalRecord, showCurrentPage, showNumberOfPage, showPageRange, showPageSelect, showPageNumber, showPageArrow, bordered, textCurrent, textTotal, textNumber, textEmpty, textPage, totalCount, rtl, }: PropsTypes) => JSX.Element>;

diff --git a/dist/esm/components/an-grid.d.ts b/dist/esm/components/an-grid.d.ts
@@ -24,6 +24,7 @@ export interface PropsTypes {
     columns: Columns[];
     rows: RowsType[];
     pageSize?: number;
+    totalCount?: number;
     loading?: boolean;
     showTotalRecord?: boolean;
     showCurrentPage?: boolean;
@@ -41,4 +42,4 @@ export interface PropsTypes {
     rtl?: boolean;
     onPageChange?: (current: number, size: number) => void;
 }
-export declare const Angrid: import("react").MemoExoticComponent<({ className, theme, rowHeight, showRowNumber, columnNumberTitle, columns, rows, loading, pageSize, onPageChange, showTotalRecord, showCurrentPage, showNumberOfPage, showPageRange, showPageSelect, showPageNumber, showPageArrow, bordered, textCurrent, textTotal, textNumber, textEmpty, textPage, rtl, }: PropsTypes) => JSX.Element>;
+export declare const Angrid: import("react").MemoExoticComponent<({ className, theme, rowHeight, showRowNumber, columnNumberTitle, columns, rows, loading, pageSize, onPageChange, showTotalRecord, showCurrentPage, showNumberOfPage, showPageRange, showPageSelect, showPageNumber, showPageArrow, bordered, textCurrent, textTotal, textNumber, textEmpty, textPage, totalCount, rtl, }: PropsTypes) => JSX.Element>;

diff --git a/src/components/an-grid.tsx b/src/components/an-grid.tsx
@@ -31,6 +31,7 @@ export interface PropsTypes {
     columns: Columns[]
     rows: RowsType[]
     pageSize?: number
+    totalCount?: number
     loading?: boolean
     showTotalRecord?: boolean
     showCurrentPage?: boolean
@@ -75,6 +76,7 @@ const Main = ({
     textNumber = locale.fa.number,
     textEmpty = locale.fa.empty,
     textPage = locale.fa.page,
+    totalCount = rows.length,
     rtl = false,
 }: PropsTypes): JSX.Element => {
     const [isLoading, setIsLoading] = useState(true)
@@ -151,7 +153,7 @@ const Main = ({
                         textTotal={textTotal}
                         textNumber={textNumber}
                         rtl={rtl}
-                        totalCount={rows.length}
+                        totalCount={totalCount}
                         pageSize={isSize}
                         onPageChange={onPageChange}
                         range={range}

diff --git a/example/src/stories/angrid.stories.tsx b/example/src/stories/angrid.stories.tsx
@@ -37,13 +37,15 @@ const columns = [
         field: 'age',
         headerName: 'Age',
         description: 'age of user',
-
         sortable: true,
     },
     {
         field: 'delete',
         headerName: 'delete(component cell)',
         description: 'delete user',
+        render: () => {
+            return <button>delete</button>
+        },
     },
 ]
 
@@ -122,6 +124,7 @@ Default.args = {
     rowHeight: 40,
     columnNumberTitle: 'number',
     loading: false,
+    totalCount: 20,
     pageSize: 5,
     showTotalRecord: true,
     showRowNumber: true,
